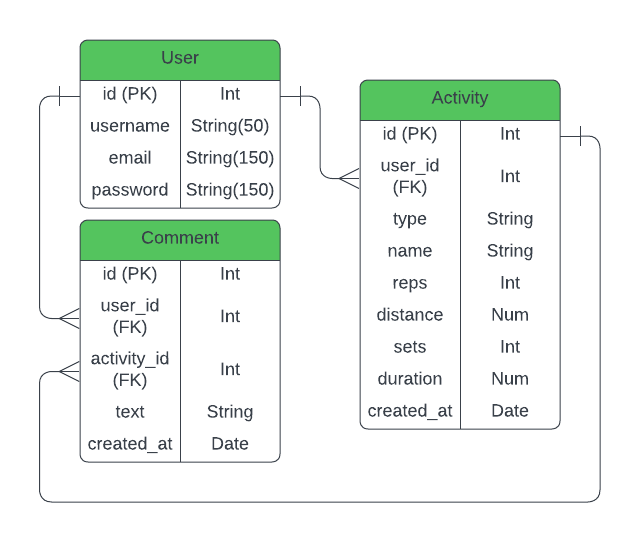
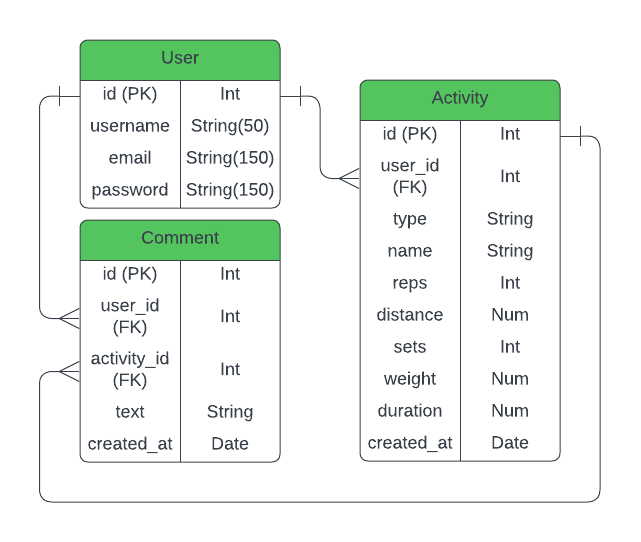
Update readme database section

Changed region(s): [[0.5616, 0.679, 0.8736, 0.8561]]

diff --git a/README.md b/README.md
@@ -121,7 +121,7 @@ Attribution for the background image used for the site:
 
 ### Database
 
-A relational database was implemented for this site, consisting of three tables: users, activities, and comments. PostgreSQL is the relational database used, employing one-to-many relationships with primary and foreign keys, and db.relationship to effectively manage the connections between the tables.
+A relational database was implemented for this site, consisting of three tables: user, activity, and comment. PostgreSQL is the relational database used, employing one-to-many relationships with primary and foreign keys, and db.relationship to effectively manage the connections between the tables.
 
 #### User Journey
 
@@ -136,6 +136,46 @@ A relational database was implemented for this site, consisting of three tables:
 <summary>Table Schema</summary>
 <img src="activetrack/static/documents/database/table-schema.png">
 </details>
+
+#### User Table
+
+Represents a user in the database.
+
+- id: Unique identifier for each user, serves as the primary key.
+- username: Unique string that identifies the user, used for login purposes.
+- email: Unique email address for the user, used for signup.
+- password: Encrypted password for user authentication.
+- activities (relationship): Establishes a one-to-many relationship with the Activity model. A user can have multiple activities. The cascade="all, delete" ensures that when a user is deleted, all associated activities are also deleted.
+- __repr__: Provides a human-readable representation of the user instance.
+
+#### Activity Table
+
+Represents an activity logged by a user.
+
+- id: Unique identifier for each activity, serves as the primary key.
+- user_id: Foreign key linking to the User table, indicates which user the activity belongs to. The ondelete="CASCADE" ensures that when a user is deleted, all their activities are also deleted.
+- workout_type: Describes the type of workout (endurance or strength).
+- exercise_name: Name of the exercise performed (e.g., running, bench press).
+- reps: Number of repetitions performed (if applicable).
+- distance: Distance covered during the activity (if applicable).
+- sets: Number of sets performed (if applicable).
+- weight: Weight used during the exercise (if applicable).
+- duration: Duration of the activity (if applicable).
+- created_at: Timestamp of when the activity was created, defaulting to the current time.
+- comments (relationship): Establishes a one-to-many relationship with the Comment model. An activity can have multiple comments. The cascade="all, delete" ensures that when an activity is deleted, all associated comments are also deleted.
+- __repr__: Provides a human-readable representation of the activity instance.
+
+#### Comment Table
+
+Represents a comment made by a user on a specific activity.
+
+- id: Unique identifier for each comment, serves as the primary key.
+- user_id: Foreign key linking to the User table, indicates which user made the comment. The ondelete="CASCADE" ensures that when a user is deleted, all their comments are also deleted.
+- activity_id: Foreign key linking to the Activity table, indicates which activity the comment is related to. The ondelete="CASCADE" ensures that when an activity is deleted, all associated comments are also deleted.
+- comment_text: The actual text of the comment.
+- created_at: Timestamp of when the comment was created, defaulting to the current time.
+- user (relationship): Establishes a many-to-one relationship with the User model, allowing access to the user who made the comment.
+- __repr__: Provides a human-readable representation of the comment instance.
 
 ### Typography
 
